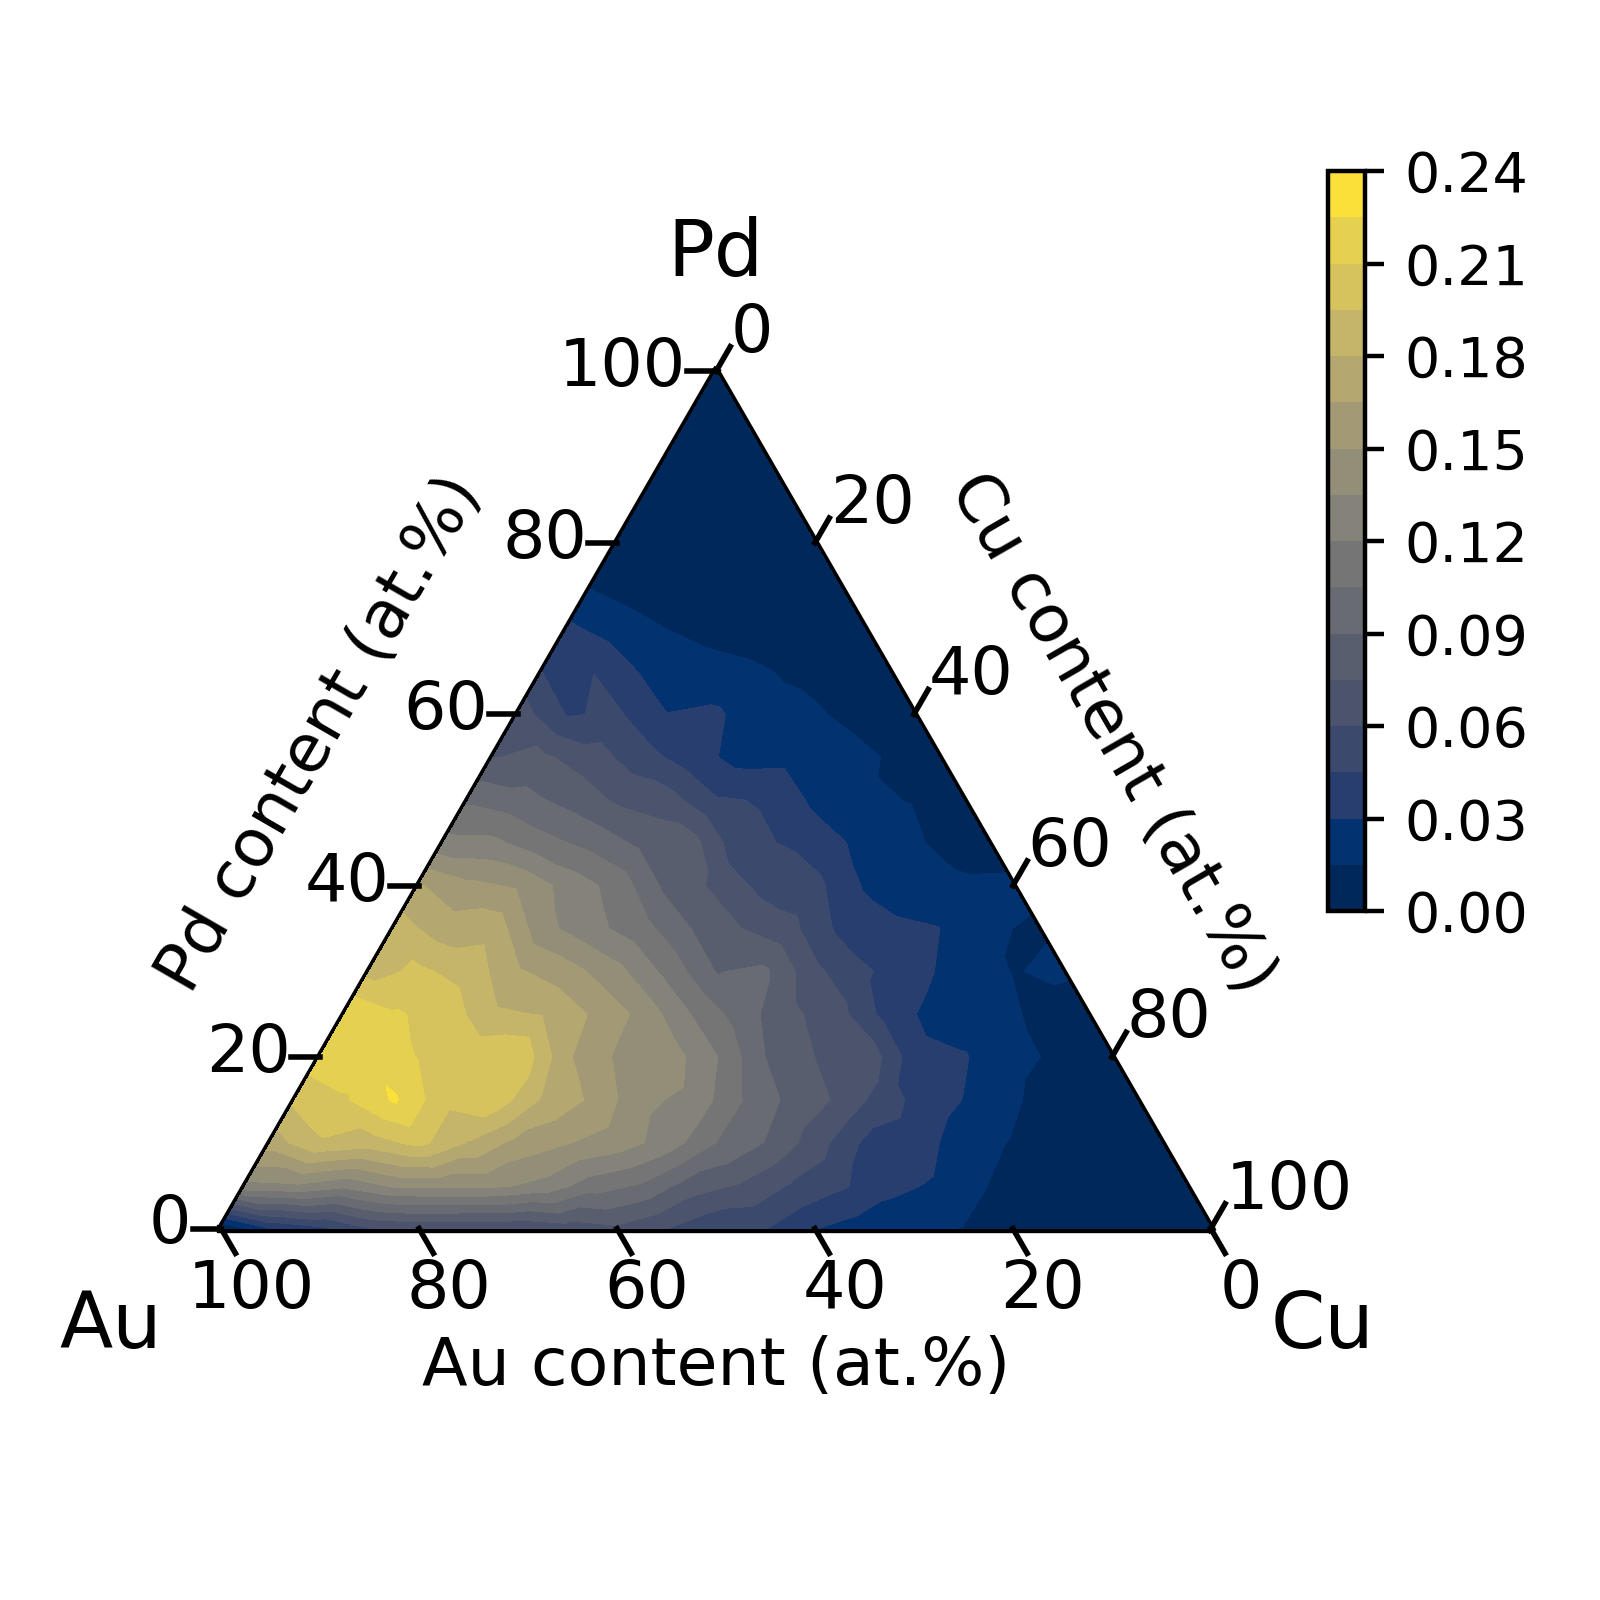
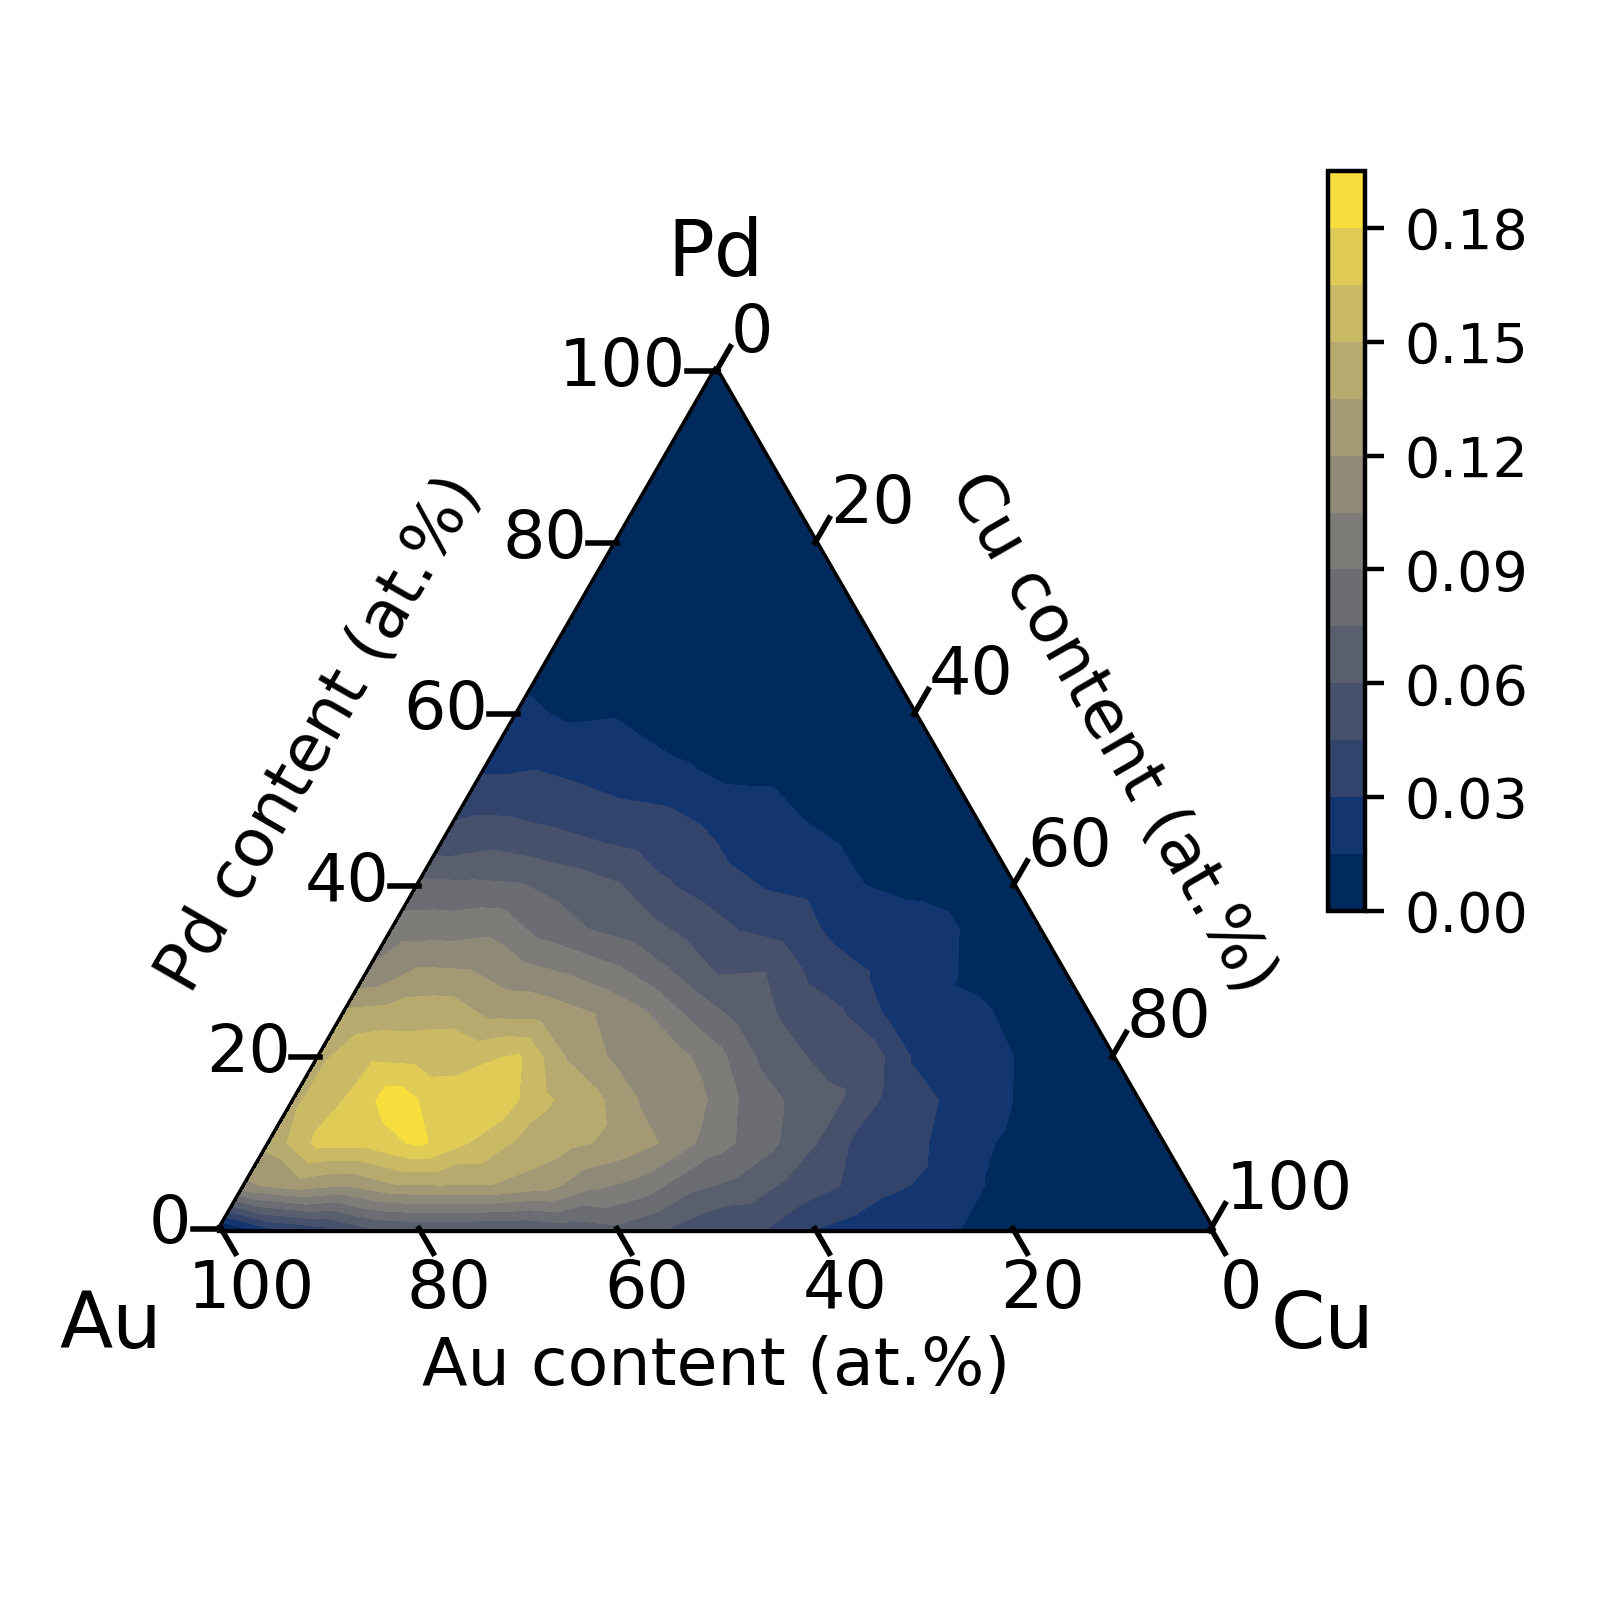
updated energy distribution plots

Changed region(s): [[0.1562, 0.375, 0.5312, 0.75], [0.875, 0.0938, 0.9688, 0.5312]]

diff --git a/energy_distributions/energy_probability_distributions.py b/energy_distributions/energy_probability_distributions.py
@@ -1,0 +1,175 @@
+import numpy as np
+import matplotlib.pyplot as plt
+from density_plot_functions import probability_density_plot
+from matplotlib.ticker import MultipleLocator
+from ase.db import connect
+
+import sys
+sys.path.append('..')
+from scripts.surface import predict_energies, adsorb_H, initiate_surface, kBT
+from scripts import metals, metal_colors
+
+P_NO=1
+P_CO=1
+n=100
+eU=0
+
+
+# Get adsorption energies on single element
+db_path = "../databases"
+with connect(f'{db_path}/single_element_slabs_out.db') as db_slab,\
+    connect(f'{db_path}/single_element_H_out.db') as db_H,\
+        connect(f'{db_path}/single_element_CO_out.db') as db_CO,\
+            connect(f'{db_path}/single_element_NO_fcc_out.db') as db_NO:
+        
+        
+        E_ref_H = db_H.get(metal='Cu').energy - db_slab.get(metal='Cu').energy -0.1 + 0.1
+        E_ref_CO = db_CO.get(metal='Cu').energy - db_slab.get(metal='Cu').energy +0.18 + 0.4
+        E_ref_NO = db_NO.get(metal='Cu').energy - db_slab.get(metal='Cu').energy +0.45 + 0.71 
+                
+        H_metal_energies=[db_H.get(metal=m).energy - db_slab.get(metal=m).energy - E_ref_H for m in metals]
+        CO_metal_energies=[db_CO.get(metal=m).energy - db_slab.get(metal=m).energy - E_ref_CO for m in metals]
+        NO_metal_energies=[db_NO.get(metal=m).energy - db_slab.get(metal=m).energy - E_ref_NO for m in metals]
+
+
+
+
+compositions = [np.array([0.2,0.2,0.2,0.2,0.2]),np.array([0.1,0.1,0.6,0.1,0.1]),np.array([0.0,0.5,0.5,0.0,0.0])]
+
+
+for composition in compositions:
+    alloy_list = [metals[i] + str(int(composition[i]*100)) for i in range(len(metals)) if composition[i]>0]
+    alloy = "".join(alloy_list)
+    
+    # Set the same seed for every composition
+    np.random.seed(1)
+
+    #Initiate surface
+    surface = initiate_surface(composition,metals,size=(n,n))
+    
+    #Predict energies of every site
+    CO_energies,CO_site_ids=predict_energies(surface, "CO", metals)
+    NO_energies,NO_site_ids=predict_energies(surface, "NO_fcc", metals)
+    H_energies,H_site_ids = predict_energies(surface,"H",metals)
+
+    #Adjust free energy by chemical potential from preassure
+    CO_energies += kBT * np.log(1/P_CO)
+    NO_energies += kBT * np.log(1/P_NO)
+
+    # Combine energies and ids
+    CO_data = np.hstack((CO_energies.reshape(-1,1),CO_site_ids))
+    NO_data = np.hstack((NO_energies.reshape(-1,1),NO_site_ids))
+    H_data = np.hstack((H_energies.reshape(-1,1),H_site_ids))
+    
+    # Initiate coverage masks
+    CO_coverage_mask = np.full((n, n),None)
+    NO_coverage_mask = np.full((n, n),None)
+    H_coverage_mask = np.full((n, n),None)
+    
+    # UPD H: Fill surface with H where adsorption energy is negative
+    for (energy, i, j) in H_data:
+        i,j=int(i),int(j)
+        if energy<=(-eU):
+            H_coverage_mask,CO_coverage_mask,NO_coverage_mask = adsorb_H(i,j,H_coverage_mask, CO_coverage_mask, NO_coverage_mask,n=n)
+
+
+    CO_mask = np.invert(CO_coverage_mask == False).flatten()
+    NO_mask = np.invert(NO_coverage_mask == False).flatten()
+
+    CO_energies = CO_energies[CO_mask]
+    NO_energies = NO_energies[NO_mask]
+    
+    CO_energies += -0.4
+    NO_energies += -0.71
+
+
+    fig,ax = plt.subplots(figsize=(5,5))
+    fig.subplots_adjust(wspace=0.5)
+    ax.set_ylim(-1.5,-0.34)
+    ax.set_xlim(-1.8,-0.1)
+    
+
+    xlim, ylim = ax.get_xlim(), ax.get_ylim()
+
+    
+
+    fig,ax,(hist_x,xedges),(hist_y,yedges), prob_density = probability_density_plot(CO_energies,NO_energies,return_hists=True,figure=(fig,ax),vmax=80)
+
+
+    a = 1.88
+    b = - 1.24
+
+
+
+
+    ax.vlines(-0.4, ylim[0],ylim[1],color='k',ls='--',alpha=0.6)
+    ax.hlines(-0.71, xlim[0],xlim[1],color='k',ls='--',alpha=0.6)
+    ax.hlines(a*(-0.1)+b, xlim[0],xlim[1],color='b',ls='--')
+    ax.set_xlim(*xlim)
+    ax.set_ylim(*ylim)
+
+
+    ax.set_xlabel("\u0394$E_{DFT}^{*CO}$ [eV]")
+    ax.set_ylabel("\u0394$E_{DFT}^{*NO}$ [eV]")
+
+
+    ax.xaxis.set_major_locator(MultipleLocator(0.4))
+    ax.xaxis.set_minor_locator(MultipleLocator(0.1))
+    ax.yaxis.set_major_locator(MultipleLocator(0.2))
+    ax.yaxis.set_minor_locator(MultipleLocator(0.1))
+
+
+    if np.all(composition==compositions[2]):
+         pass
+    else:
+        ax.scatter(CO_metal_energies[0],NO_metal_energies[0],color=metal_colors['Ag'],edgecolors='k',label='Ag')
+        ax.text(CO_metal_energies[0],NO_metal_energies[0]+0.02,'Ag',va='bottom',ha='center',fontsize=8)
+    
+    ax.scatter(CO_metal_energies[1],NO_metal_energies[1],color=metal_colors['Au'],edgecolors='k',label='Au')
+    ax.text(CO_metal_energies[1],NO_metal_energies[1]+0.02,'Au',va='bottom',ha='center',fontsize=8)
+    
+    ax.scatter(CO_metal_energies[2],NO_metal_energies[2],color=metal_colors['Cu'],edgecolors='k',label='Cu')
+    ax.text(CO_metal_energies[2],NO_metal_energies[2]+0.02,'Cu',va='bottom',ha='center',fontsize=8)
+
+
+    #ax.legend(loc=2)
+
+    
+
+
+    probability = np.sum(NO_energies<=(-0.71))/10000 * np.sum(CO_energies<=(-0.4))/10000
+
+    print(probability)
+
+
+    x_centers = (xedges[1:] + xedges[:-1])/2
+    y_centers = (yedges[1:] + yedges[:-1])/2
+
+    x_centers_id=np.where(x_centers<=-0.4)[0]
+    y_centers_id=np.where(y_centers<=-0.71)[0]
+
+    #prob2 = np.sum(prob_density.T[y_centers_id[0]:y_centers_id[-1]+1,x_centers_id[0]:x_centers_id[-1]+1]) * (x_centers[x_centers_id[1]]-x_centers[x_centers_id[0]]) * (y_centers[y_centers_id[1]]-y_centers[y_centers_id[0]]) 
+
+    #print(prob2)
+    alloy_sub_list = [metals[i] + '$_{' + str(int(composition[i]*100)) + '}$' for i in range(len(metals)) if composition[i]>0]
+    alloy_sub = ''.join(alloy_sub_list)
+    props = dict(boxstyle='round', facecolor='white', alpha=0.3)
+    ax.text(xlim[0]+0.05,ylim[1]-0.05,alloy_sub,ha='left',va='top',color='k',bbox=props)
+
+    ax.text(xlim[0]+0.02,-0.73,f'$P_{{area}}$ = {probability:.4f}',ha='left',va='top',color='tab:blue')
+    ax.fill_between([xlim[0],-0.4],ylim[0],-0.71,alpha=0.3,hatch='///',color='none',linewidth=0,edgecolor='tab:blue')
+    
+
+    #ax.set_aspect('equal')
+    #plt.tight_layout()
+    #plt.show()
+    # plt.savefig('test.png',dpi=400)
+    # break
+    fig.subplots_adjust(bottom=0.2,left=0.2,right=0.8,top=0.8)
+   
+    plt.savefig(f'{alloy}/{alloy}_CO_NO_energy_distribution.png',dpi=600,bbox_inches='tight')
+
+
+    
+
+

diff --git a/energy_distributions/density_plot_functions.py b/energy_distributions/density_plot_functions.py
@@ -1,6 +1,7 @@
 import numpy as np
 import matplotlib.pyplot as plt
 from matplotlib.colors import LogNorm, LinearSegmentedColormap
+from mpl_toolkits.axes_grid1 import make_axes_locatable
 
 
 def truncate_colormap(cmap, minval=0.0, maxval=1.0, n=100):
@@ -13,23 +14,52 @@ def truncate_colormap(cmap, minval=0.0, maxval=1.0, n=100):
 cmap = truncate_colormap(plt.get_cmap("hot_r"),maxval=0.75)
 
 
-def probability_density_plot(x,y,return_hists=False):
-        fig,ax = plt.subplots(dpi=400,figsize=(8,6))
+def probability_density_plot(x,y,return_hists=False,figure=None,colorbar=True,N=10000,vmax=None):
+        if figure is not None:
+              fig,ax = figure
+        else:
+            fig,ax = plt.subplots(dpi=400,figsize=(8,6))
         #hist, xedges, yedges = np.histogram2d(x, y,bins=25,density=True)
         #areas = np.matmul(np.array([np.diff(xedges)]).T, np.array([np.diff(yedges)]))
         #hist=hist.T
         #prob_density = hist*areas
-        hist_x,xedges = np.histogram(x,bins=200,density=True)
-        hist_y,yedges = np.histogram(y,bins=200,density=True)
+        # hist_x,xedges = np.histogram(x,bins=200,density=True)
+        # hist_y,yedges = np.histogram(y,bins=200,density=True)
+
+        hist_x,xedges = np.histogram(x,bins=100)
+        hist_y,yedges = np.histogram(y,bins=100)
         
+        prob_x = hist_x/N /np.diff(xedges)
+        prob_y = hist_y/N /np.diff(yedges)
+
         areas = np.matmul(np.array([np.diff(xedges)]).T, np.array([np.diff(yedges)]))
         
-        prob_density = np.outer(hist_x,hist_y)*areas
+        prob_density = np.outer(prob_x,prob_y)#/areas
+
+        prob_density_pad = np.pad(prob_density,pad_width=((2,2),(2,2)),mode='constant',constant_values=0)
+
+        x_bin_length = abs(xedges[1]-xedges[0])
+        y_bin_length = abs(yedges[1]-yedges[0])
+
         # print(prob_density)
-        im=ax.imshow(prob_density.T,norm=LogNorm(vmin=1e-8,vmax=1.0),cmap=cmap,interpolation='gaussian',origin='lower',extent=[xedges[0], xedges[-1],yedges[0],yedges[-1]],aspect="auto")
-        cbar=plt.colorbar(im,ticks=[1e-8,1e-5,1e-4,0.001,0.01,0.1,1])
-        cbar.ax.set_yticklabels(["0","$10^{-5}$","$10^{-4}$","$10^{-3}$","$10^{-2}$","$10^{-1}$","1"]) 
-        cbar.ax.set_ylabel("Probability Density")
+        im=ax.imshow(prob_density_pad.T,norm=LogNorm(vmin=1e-4,vmax=vmax),cmap=cmap,interpolation='gaussian',origin='lower',extent=[xedges[0]-2*x_bin_length, xedges[-1]+2*x_bin_length,yedges[0]-2*y_bin_length,yedges[-1]+2*y_bin_length],aspect="auto")
+        
+
+        the_divider = make_axes_locatable(ax)
+        color_axis = the_divider.append_axes("right", size="5%", pad='2%')
+
+
+        if colorbar:
+            # if np.max(prob_density)>10:
+            #     cbar=plt.colorbar(im,ticks=[1e-4,0.001,0.01,0.1,1,10])
+            #     cbar.ax.set_yticklabels(["0","$10^{-3}$","$10^{-2}$","$10^{-1}$","1","10"])
+            # else:    
+            #     cbar=plt.colorbar(im,ticks=[1e-4,0.001,0.01,0.1,1])
+            #     cbar.ax.set_yticklabels(["0","$10^{-3}$","$10^{-2}$","$10^{-1}$","1"]) 
+            
+            cbar=plt.colorbar(im,ticks=[1e-4,0.001,0.01,0.1,1,10],cax=color_axis)
+            cbar.ax.set_yticklabels(["0","$10^{-3}$","$10^{-2}$","$10^{-1}$","1","10"])
+            cbar.ax.set_ylabel("Probability Density")
         if return_hists:
             return fig,ax,(hist_x,xedges),(hist_y,yedges), prob_density
         else:

diff --git a/energy_distributions/DFT_scaling.py b/energy_distributions/DFT_scaling.py
@@ -41,7 +41,7 @@ H_energies-=0.1
 
 
 fig, (ax1,ax2,ax3) = plt.subplots(nrows=1,ncols=3,figsize=(13,4))
-
+count=0
 for metal in metals:
     CO_mask = CO_site_metal==metal
     
@@ -51,14 +51,30 @@ for metal in metals:
         H_site_mask = np.any(H_site_ids==site_id,axis=1)
         H_mask = H_slab_mask * H_site_mask
 
-        ax1.scatter(H_energies[H_mask],np.full(len(H_energies[H_mask]),CO_energy),c=metal_colors[metal],marker='.')
+        H_energies_masked = H_energies[H_mask]
+
+        ax1.scatter(H_energies_masked,np.full(len(H_energies_masked),CO_energy),c=metal_colors[metal],marker='.')
 
 
         NO_slab_mask = NO_slabs_ids==slab_id
         NO_site_mask = np.any(NO_site_ids==site_id,axis=1)
         NO_mask = NO_slab_mask * NO_site_mask
 
-        ax3.scatter(np.full(len(NO_energies[NO_mask]),CO_energy), NO_energies[NO_mask],c=metal_colors[metal],marker='.')
+        NO_energies_masked = NO_energies[NO_mask]
+
+
+        if np.any(H_energies_masked<=(-0.1)):
+            
+            ax3.scatter(np.full(len(NO_energies_masked),CO_energy), NO_energies_masked,c=metal_colors[metal],marker='.',alpha=0.5)
+            count+=1
+
+        else:
+            
+            
+
+            ax3.scatter(np.full(len(NO_energies_masked),CO_energy), NO_energies_masked,c=metal_colors[metal],marker='.')
+
+    
 
 
 H_NO_energies = np.empty((0,2))
@@ -144,3 +160,4 @@ plt.tight_layout()
 fig.subplots_adjust(top=0.9)
 plt.savefig('DFT_scaling.png', dpi=400)
 
+print(count)

diff --git a/selectivity/make_plots.py b/selectivity/make_plots.py
@@ -27,7 +27,11 @@ for P_NO, usecols in zip(['1','01'],[(4,5,6,7),(9,10,11,12)]):
     plt.tight_layout()
     plt.savefig(f'AuCuPd_NH3_PNO{P_NO}.png',dpi=400)
 
-    NO_conversion = NO_CN/(NO_NH3+NO_CN)
+    fig,ax = make_plot(grid,NO_CN,metals,colormap='summer',minval=0.0,colorbar=True)
+    plt.tight_layout()
+    plt.savefig(f'AuCuPd_CN_PNO{P_NO}.png',dpi=400)
+
+    NO_conversion = NO_CN/(NO_NH3+NO_CN+H)
     NO_conversion[np.isnan(NO_conversion)] = 0
     fig,ax = make_plot(grid,NO_conversion,metals,colormap='cividis',minval=0.0,colorbar=True)
     plt.tight_layout()
